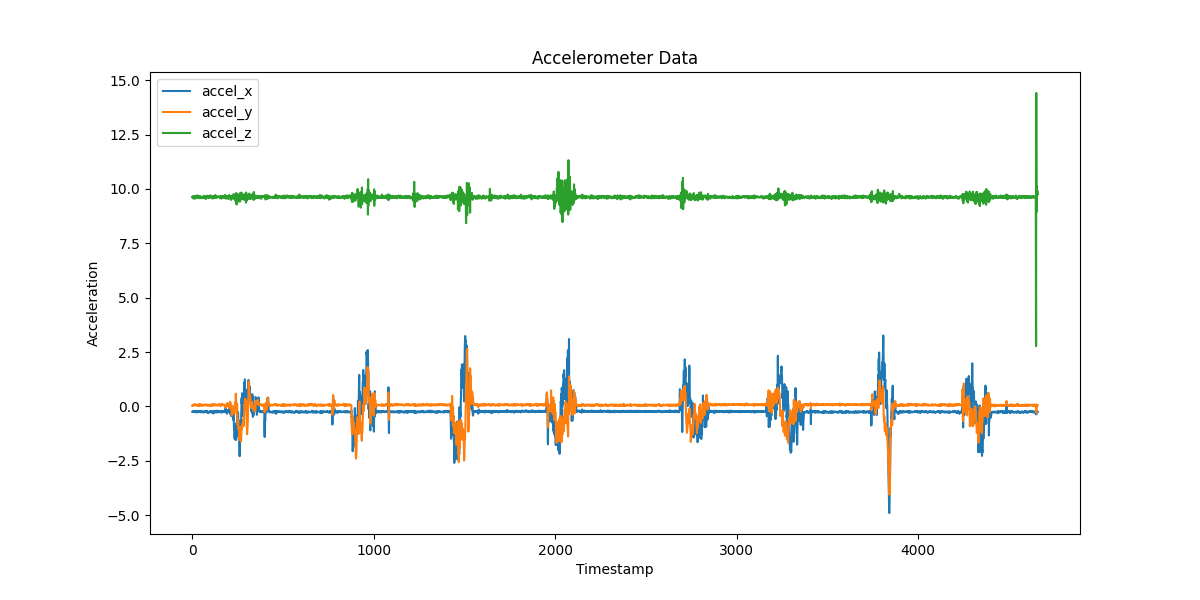
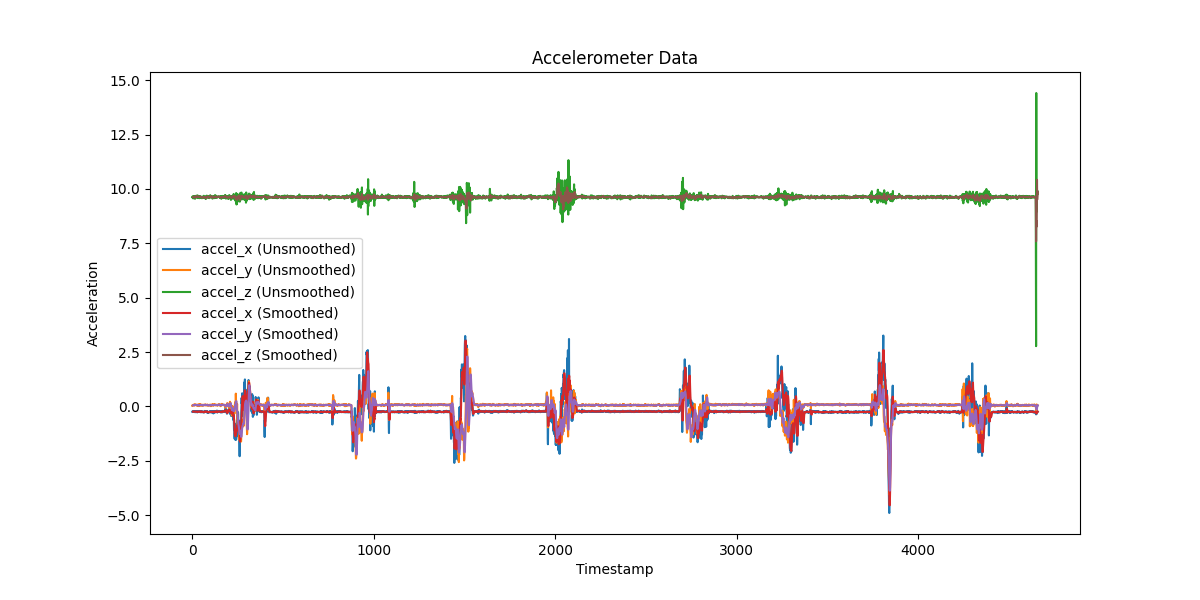
M3 done

Changed region(s): [[0.1233, 0.39, 0.8633, 0.81], [0.1542, 0.3, 0.8633, 0.36], [0.1542, 0.12, 0.2158, 0.24]]

diff --git a/m3/milestone3.py b/m3/milestone3.py
@@ -2,32 +2,50 @@ import pandas as pd
 import numpy as np
 from matplotlib import pyplot as plt
 
-#read in cols
+# read in cols
 columns_to_use = ['timestamp', 'accel_x', 'accel_y', 'accel_z', 'gyro_x', 'gyro_y', 'gyro_z', 'mag_x', 'mag_y', 'mag_z']
 data = pd.read_csv('../lab8-dataset/TURNING.csv', header=0, usecols=columns_to_use)
 
-# Plot the accelerometer data
+# Plot the accelerometer data (both smoothed and unsmoothed)
 plt.figure(figsize=(12, 6))
 
-# Assuming 'accel_x', 'accel_y', 'accel_z' are the columns for accelerometer data
-plt.plot(data['accel_x'], label='accel_x')
-plt.plot(data['accel_y'], label='accel_y')
-plt.plot(data['accel_z'], label='accel_z')
+# Unsmoothed data
+plt.plot(data['accel_x'], label='accel_x (Unsmoothed)')
+plt.plot(data['accel_y'], label='accel_y (Unsmoothed)')
+plt.plot(data['accel_z'], label='accel_z (Unsmoothed)')
+
+# Smoothed data
+data['smooth_accel_x'] = data['accel_x'].rolling(window=5).mean()
+data['smooth_accel_y'] = data['accel_y'].rolling(window=5).mean()
+data['smooth_accel_z'] = data['accel_z'].rolling(window=5).mean()
+
+plt.plot(data['smooth_accel_x'], label='accel_x (Smoothed)')
+plt.plot(data['smooth_accel_y'], label='accel_y (Smoothed)')
+plt.plot(data['smooth_accel_z'], label='accel_z (Smoothed)')
 
 plt.xlabel('Timestamp')
 plt.ylabel('Acceleration')
 plt.title('Accelerometer Data')
 plt.legend()
 plt.savefig('accelerometer_plot.png')
+plt.show()
 
-
-# Plot the magnetometer data
+# Plot the magnetometer data (both smoothed and unsmoothed)
 plt.figure(figsize=(12, 6))
 
-# Assuming 'mag_x', 'mag_y', 'mag_z' are the columns for magnetometer data
-plt.plot(data['mag_x'], label='mag_x')
-plt.plot(data['mag_y'], label='mag_y')
-plt.plot(data['mag_z'], label='mag_z')
+# Unsmoothed data
+plt.plot(data['mag_x'], label='mag_x (Unsmoothed)')
+plt.plot(data['mag_y'], label='mag_y (Unsmoothed)')
+plt.plot(data['mag_z'], label='mag_z (Unsmoothed)')
+
+# Smoothed data
+data['smooth_mag_x'] = data['mag_x'].rolling(window=5).mean()
+data['smooth_mag_y'] = data['mag_y'].rolling(window=5).mean()
+data['smooth_mag_z'] = data['mag_z'].rolling(window=5).mean()
+
+plt.plot(data['smooth_mag_x'], label='mag_x (Smoothed)')
+plt.plot(data['smooth_mag_y'], label='mag_y (Smoothed)')
+plt.plot(data['smooth_mag_z'], label='mag_z (Smoothed)')
 
 plt.xlabel('Timestamp')
 plt.ylabel('Magnetometer')
@@ -36,13 +54,22 @@ plt.legend()
 plt.savefig('magnetometer_plot.png')
 plt.show()
 
-# Plot the gyroscope data
+# Plot the gyroscope data (both smoothed and unsmoothed)
 plt.figure(figsize=(12, 6))
 
-# Assuming 'gyro_x', 'gyro_y', 'gyro_z' are the columns for gyroscope data
-plt.plot(data['gyro_x'], label='gyro_x')
-plt.plot(data['gyro_y'], label='gyro_y')
-plt.plot(data['gyro_z'], label='gyro_z')
+# Unsmoothed data
+plt.plot(data['gyro_x'], label='gyro_x (Unsmoothed)')
+plt.plot(data['gyro_y'], label='gyro_y (Unsmoothed)')
+plt.plot(data['gyro_z'], label='gyro_z (Unsmoothed)')
+
+# Smoothed data
+data['smooth_gyro_x'] = data['gyro_x'].rolling(window=5).mean()
+data['smooth_gyro_y'] = data['gyro_y'].rolling(window=5).mean()
+data['smooth_gyro_z'] = data['gyro_z'].rolling(window=5).mean()
+
+plt.plot(data['smooth_gyro_x'], label='gyro_x (Smoothed)')
+plt.plot(data['smooth_gyro_y'], label='gyro_y (Smoothed)')
+plt.plot(data['smooth_gyro_z'], label='gyro_z (Smoothed)')
 
 plt.xlabel('Timestamp')
 plt.ylabel('Gyroscope')
@@ -50,28 +77,10 @@ plt.title('Gyroscope Data')
 plt.legend()
 plt.savefig('gyroscope_plot.png')
 plt.show()
-
-
-# Smooth the data if necessary (using rolling mean or other techniques)
-# Smoothing accelerometer data
-data['smooth_accel_x'] = data['accel_x'].rolling(window=5).mean()
-data['smooth_accel_y'] = data['accel_y'].rolling(window=5).mean()
-data['smooth_accel_z'] = data['accel_z'].rolling(window=5).mean()
-
-# Smoothing gyroscope data
-data['smooth_gyro_x'] = data['gyro_x'].rolling(window=5).mean()
-data['smooth_gyro_y'] = data['gyro_y'].rolling(window=5).mean()
-data['smooth_gyro_z'] = data['gyro_z'].rolling(window=5).mean()
-
-# Smoothing magnetometer data
-data['smooth_mag_x'] = data['mag_x'].rolling(window=5).mean()
-data['smooth_mag_y'] = data['mag_y'].rolling(window=5).mean()
-data['smooth_mag_z'] = data['mag_z'].rolling(window=5).mean()
-
 # Detect 90-degree turns
 # Calculate thresholds based on quantiles of smoothed data
 quantile_accel = .7 # Adjust these quantile values as needed
-quantile_gyro = .8
+quantile_gyro = .7
 quantile_mag = .73
 
 threshold_accel = data['smooth_accel_x'].quantile(quantile_accel)
